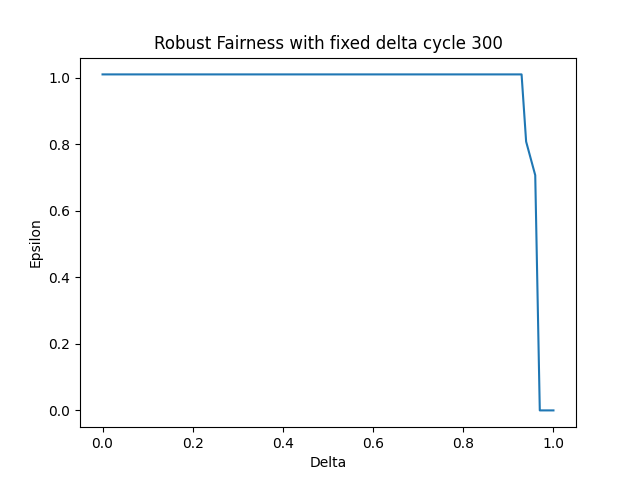
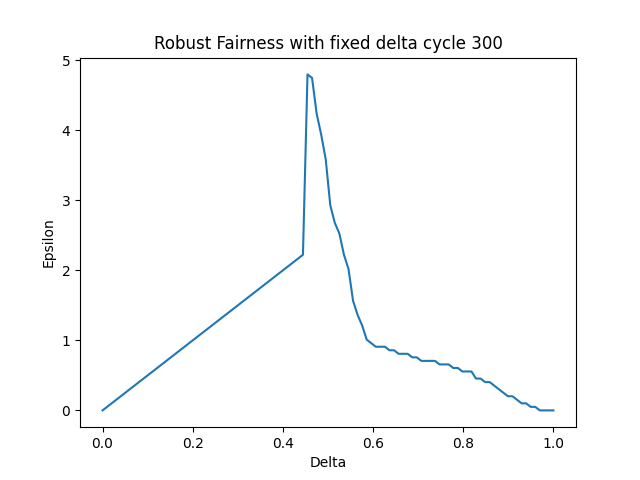
fix robust fairness implementation

diff --git a/tezos_analysis.py b/tezos_analysis.py
@@ -669,8 +669,8 @@ def get_income_at_cycle(cycle):
     return rewards
 
 
-def compute_robust_fairness_all_bakers_new(cycle):
-    # TODO: make robust fairness out of this
+def get_stakes_and_fractions(cycle):
+    """Computes robust fairness for a specific cycle for all bakers"""
     cycle_total_reward_dict, baker_initial_cycle_dict, baker_initial_reward_dict, cycle_list_of_active_bakers_dict = get_bakers_initial_values_fairness()
 
     initial_stakes = []
@@ -695,42 +695,18 @@ def compute_robust_fairness_all_bakers_new(cycle):
         initial_stakes.append(init_stake)
         fractions.append(fraction)
 
-    # TODO: debug this here above
     return initial_stakes, fractions
 
 
-# TODO: modify this below so that it uses compute_robust_fairness_all_bakers_new to compute robust fairness intai of the getbakersinitialrewardsatcycle
 def compute_robust_fairness(cycle, Deltas=np.linspace(0, 1, 100)):
-    initial_bakers, initial_rewards, initial_totals = get_bakers_initial_rewards_at_cycle(cycle)
+    """Robust fairness for one specific cycle and all bakers"""
     EPS = np.empty([100])
     # Deltas = np.linspace(0, 1, 100)
     Epsilons = np.linspace(0, 5, 100)
 
-    initial_stakes = []  # check if this array has correct length
-    n = len(initial_rewards)
-    for i in range(0, n):
-        if initial_totals[i] == 0:
-            init_stake = 0
-        else:
-            init_stake = initial_rewards[i] / initial_totals[i]
-        initial_stakes.append(init_stake)
-
-    # fractions gamma_a
-    rewards_array = get_income_at_cycle(cycle)  # length of num_bakers at cycle (for ex at cycle 5 this has length 8)
-    fractions = []  # reward at cycle x divided by total_reward at cycle_x, same length as rewards_array
-    total_reward = cur.execute('select sum(total_income) from income_table where cycle=%s' % cycle).fetchall()[0][0]
-    for r in rewards_array:
-        if total_reward == 0:
-            fraction_r = 0
-        else:
-            fraction_r = r / total_reward
-        fractions.append(fraction_r)
-
-    # convert initial_rewards and fractions to float array
-    # TODO: check that these have same length
+    initial_stakes, fractions = get_stakes_and_fractions(cycle)
     initial_stakes = np.fromiter(initial_stakes, dtype=float)  # length of num bakers at cycle 0
     fractions = np.fromiter(fractions, dtype=float)  # length of num bakers at cycle (i.e. current cycle)
-
     for idx, delta in enumerate(Deltas):
         for eps in Epsilons:
             low_eps = (1 - eps) * initial_stakes <= fractions
@@ -740,9 +716,6 @@ def compute_robust_fairness(cycle, Deltas=np.linspace(0, 1, 100)):
             if Pr >= 1 - delta:
                 EPS[idx] = eps
                 break
-    # print('EPS', EPS)
-    # print("The bakers put " + str(round(sum(initial_stakes), 4) * 100) + "% of the stakes and received " + str(
-    #    round(sum(fractions), 4) * 100) + "% of the rewards")
     return Deltas, EPS
 
 
@@ -943,15 +916,15 @@ if __name__ == '__main__':
     #plot_expecational_fairness_all_bakers_overview(0, 398, 0.1, 0.25, 0.3)
 
     # Robust fairness (we fix delta and a specific cycle and find epsilon)
-    #plot_robust_fairness(1)  # we look at cycle 1 as there we have the same bakers as in cycle 0
-    #plot_robust_fairness(5)
-    #plot_robust_fairness(6)  # TODO: check this
+    plot_robust_fairness(1)  # we look at cycle 1 as there we have the same bakers as in cycle 0
+    plot_robust_fairness(5)
+    plot_robust_fairness(6)
     # plot a robust fairness for every era (one cycle in each era)
-    #for c in era_cycles:
-    #    plot_robust_fairness(c)
+    for c in era_cycles:
+        plot_robust_fairness(c)
 
     # Area under curve robust fairness
-    #plot_robust_fairness_aoc(0, 5)  # works for every cycle (for initial value we take the value in prev. cycle)
+    # plot_robust_fairness_aoc(0, 5)  # works for every cycle (for initial value we take the value in prev. cycle)
     #plot_robust_fairness_aoc(0, 398)
 
     # TODO: 3) Compute robust fairness_highest_x
